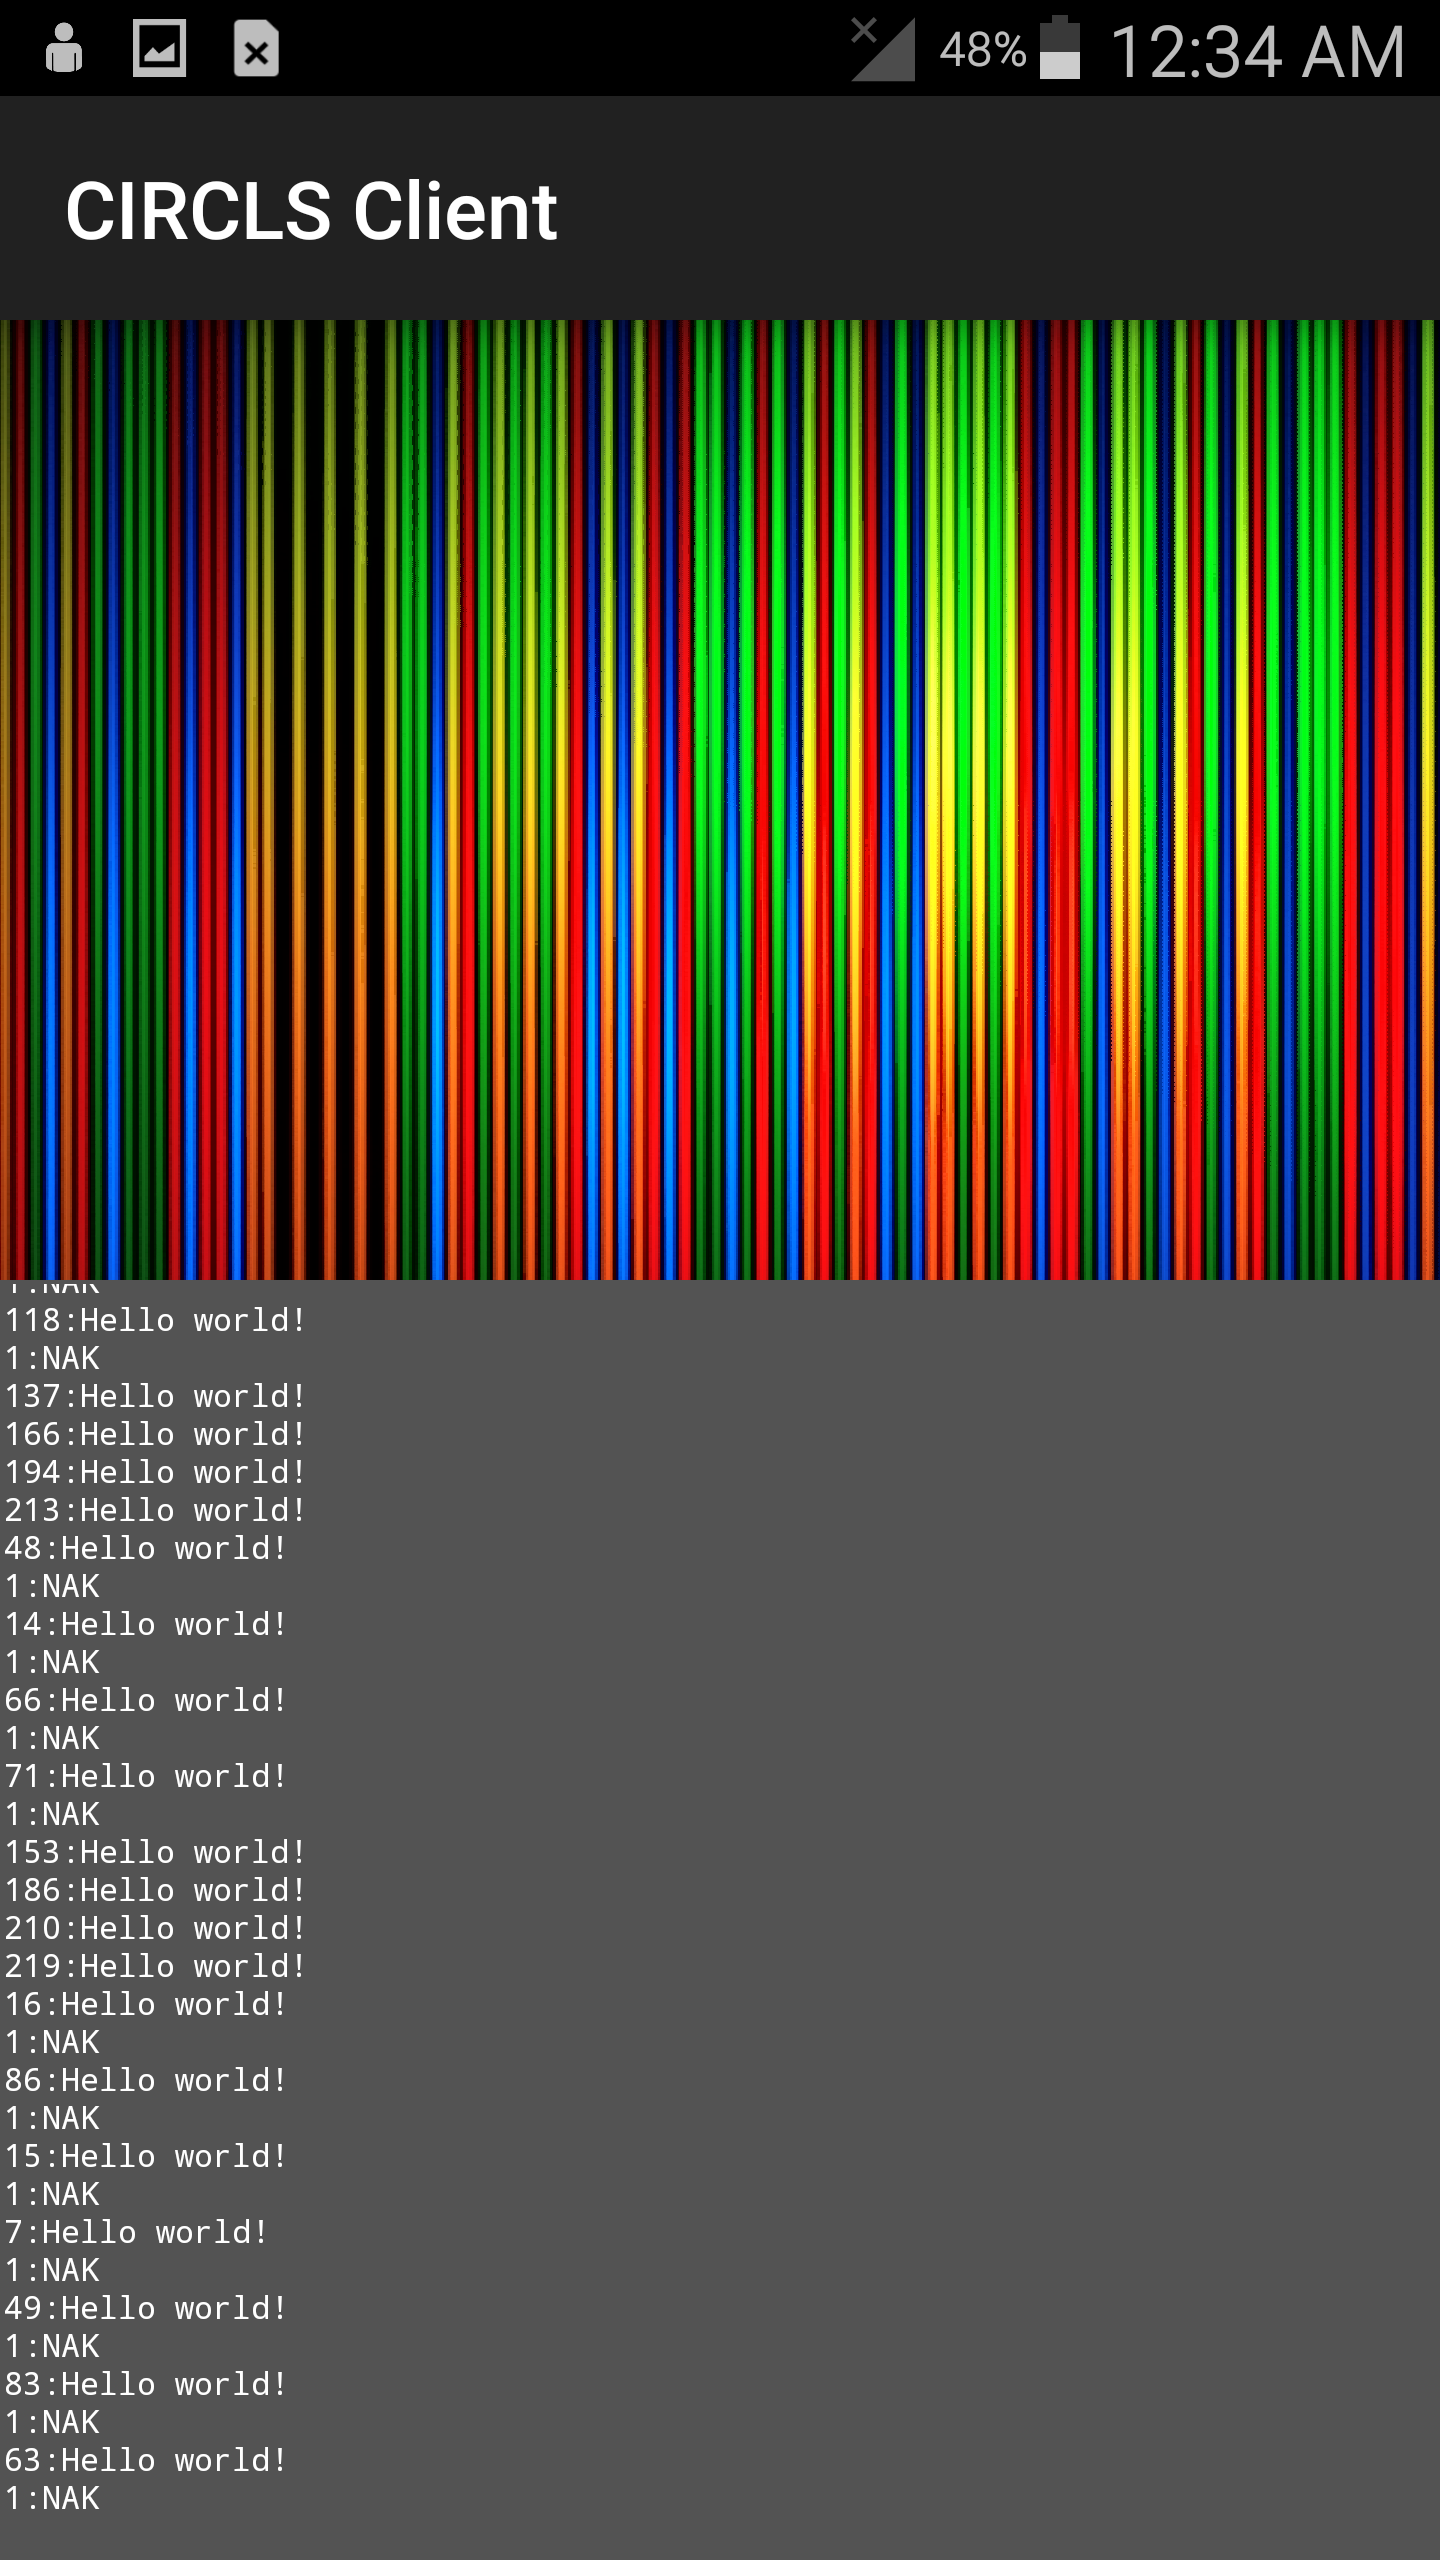
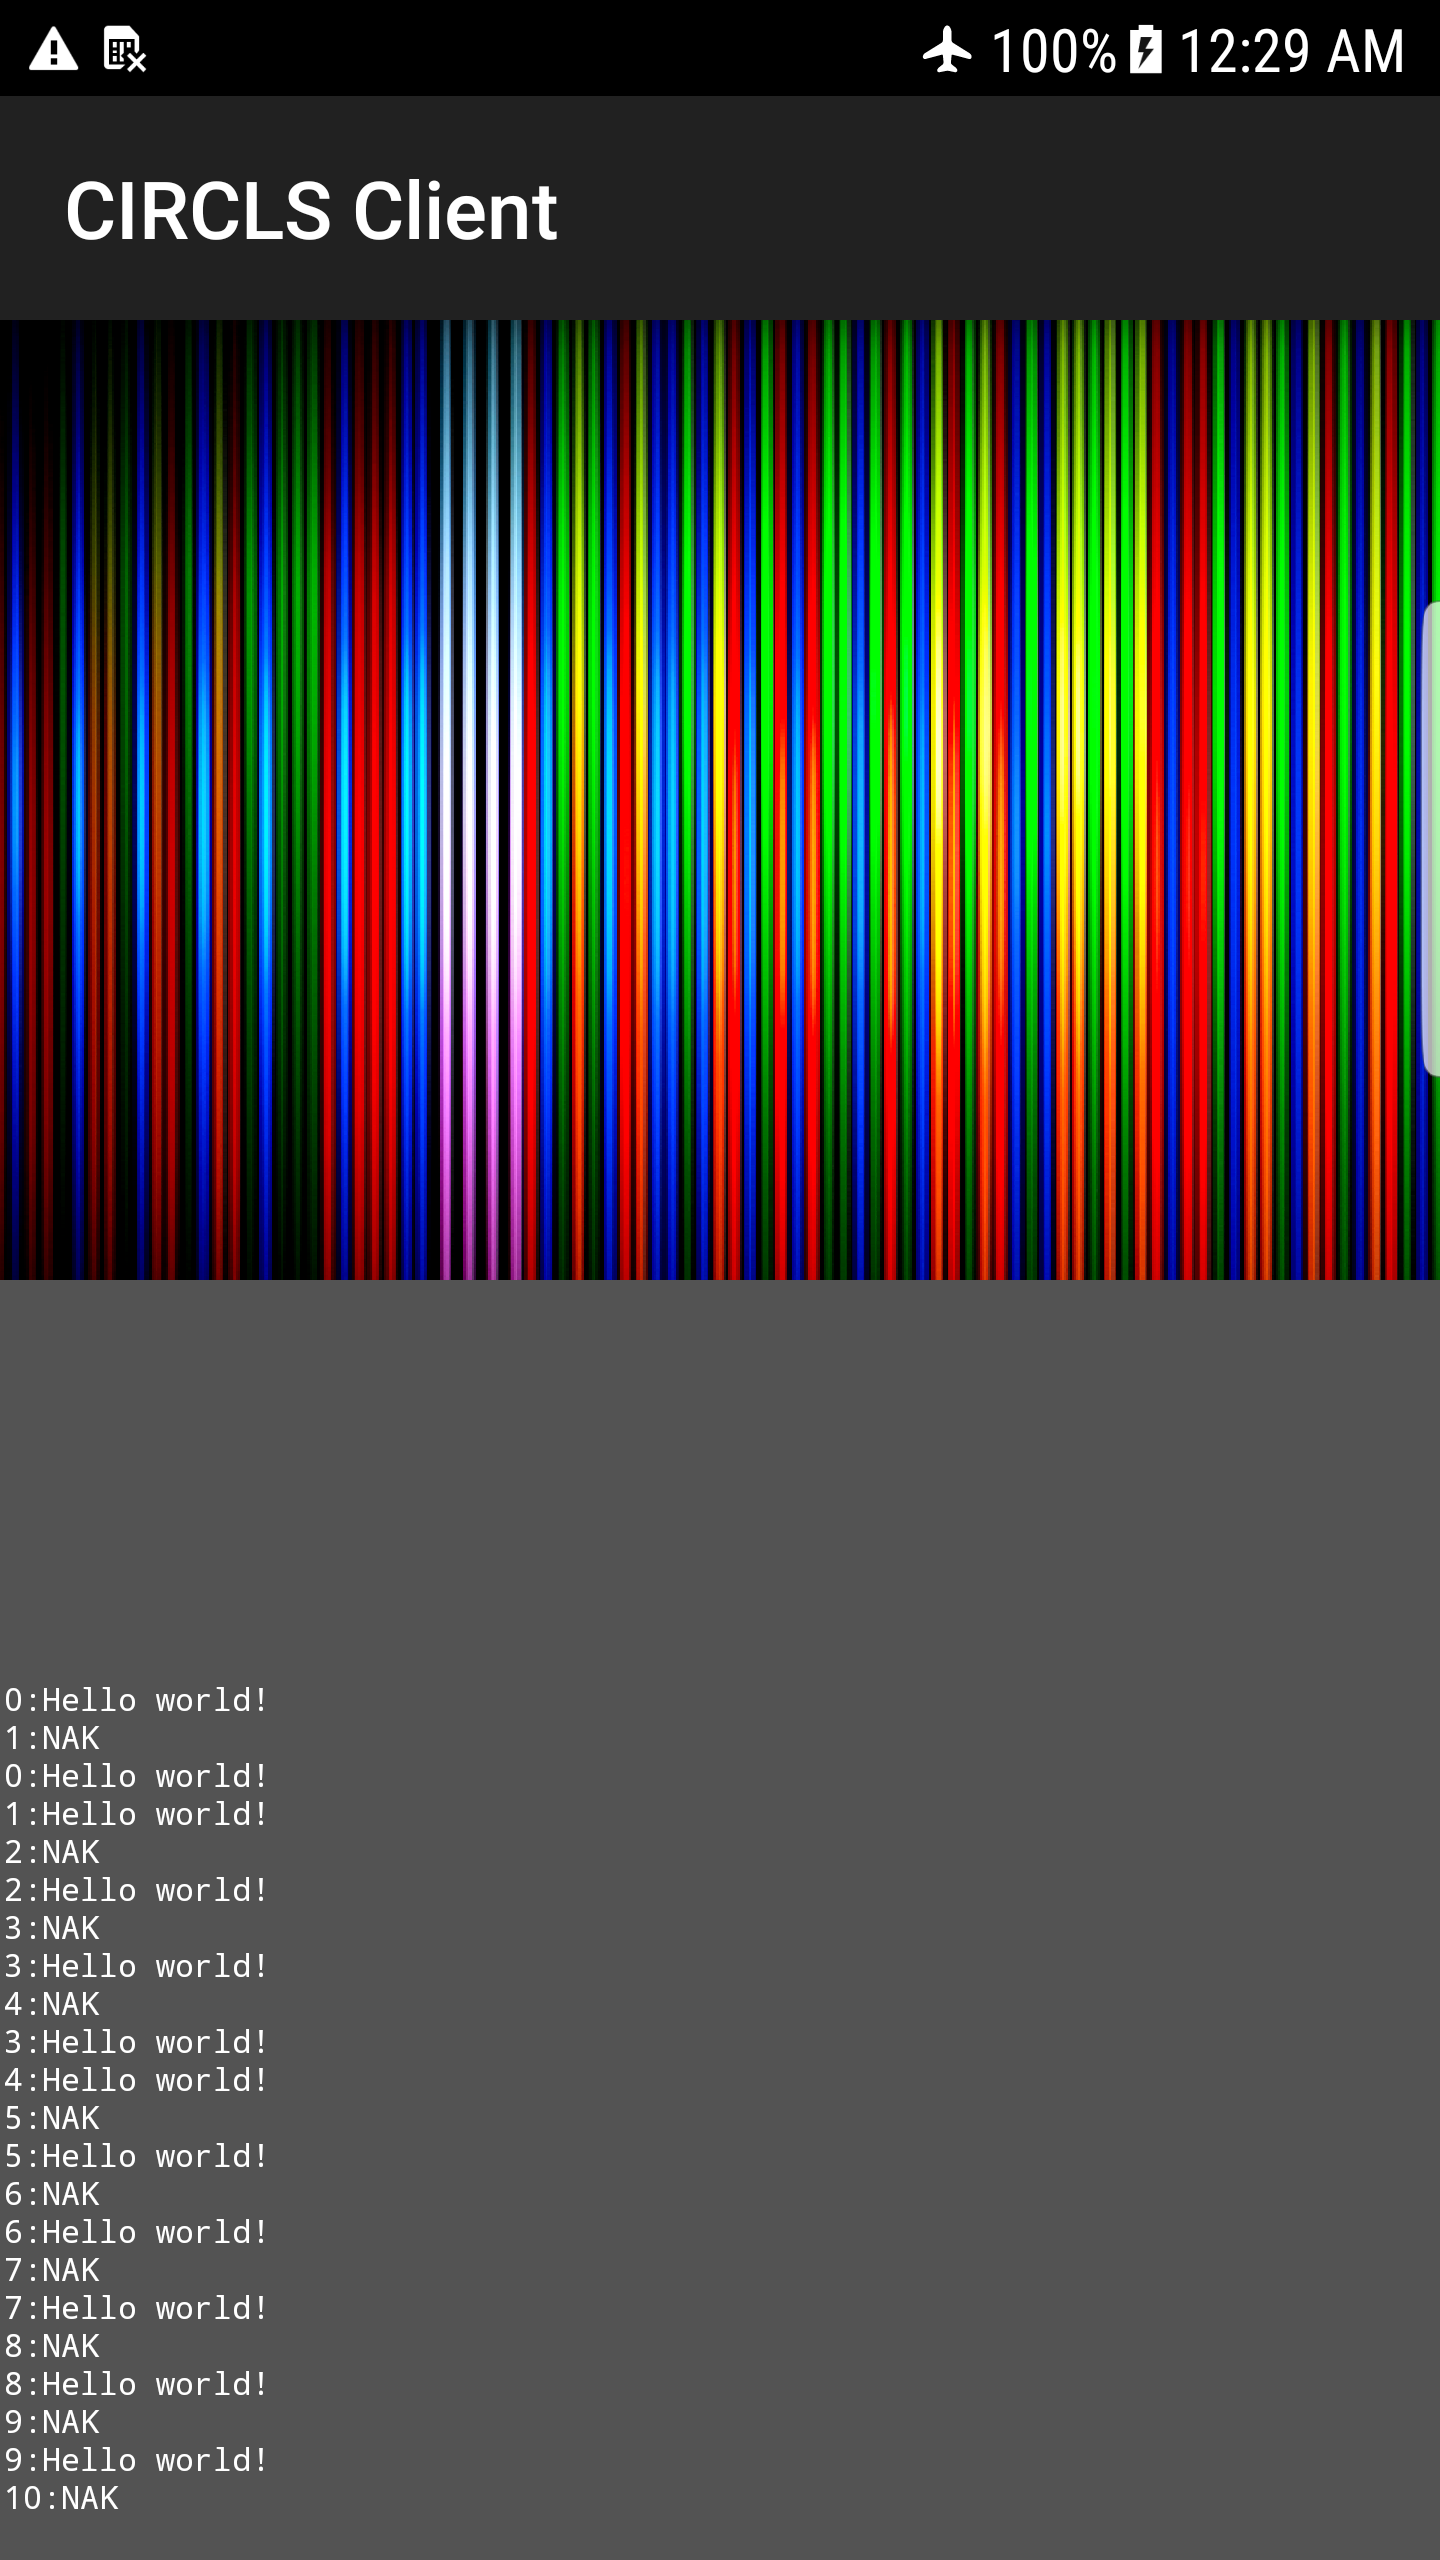
detect white

diff --git a/CirclsClient/app/src/main/cpp/native-lib.cpp b/CirclsClient/app/src/main/cpp/native-lib.cpp
@@ -8,7 +8,7 @@
 #define LOG_TAG    "native-lib"
 #define ALOG(...)  __android_log_print(ANDROID_LOG_INFO,LOG_TAG,__VA_ARGS__)
 
-#define DEBUG // avoid assert
+#define DEBUG // avoid assert FindErrors
 #include "rs.hpp"
 #define NMSG 13
 #define NPAR 4
@@ -34,7 +34,7 @@ void flattenCols(Mat &mat, int32_t flat[][3])
     // get Mat properties
     int rows = mat.rows;
     int cols = mat.cols;
-    uint8_t *data = (uint8_t *)mat.data;
+    auto *data = (uint8_t *)mat.data;
 
     // initialize flat frame
     memset(flat, 0, sizeof(int32_t) * rows * 3);
@@ -64,7 +64,7 @@ void flattenRows(Mat &mat, int32_t flat[][3]) {
     // get Mat properties
     int rows = mat.rows;
     int cols = mat.cols;
-    uint8_t *data = (uint8_t *)mat.data;
+    auto *data = (uint8_t *)mat.data;
 
     // initialize flat frame
     memset(flat, 0, sizeof(int32_t) * cols * 3);
@@ -94,9 +94,10 @@ void flattenRows(Mat &mat, int32_t flat[][3]) {
 // takes symbol storage, a flat frame of pixels, and the number of pixels
 int detectSymbols( uint8_t symbols[][2], int32_t frame[][3], int pixels )
 {
+    std::stringstream ss;
     int count = 0;          // symbol index
     int width = 0;
-    char p = '1';           // previous symbol
+    char p = ' ';           // previous symbol
 
     // convert Lab numbers to 01RGBY representation
     for (int i = 0; i < pixels; i++)
@@ -107,18 +108,19 @@ int detectSymbols( uint8_t symbols[][2], int32_t frame[][3], int pixels )
         char c;
 
         // +L = white, +a = red; -a = green; -b = blue; +b = yellow;
+        if (L < 20) {
+            c = '0';
+        } else if (abs(a) < 30 && abs(b) < 30) {
+            c = '1';
+        } else {
+            if (abs(a) > abs(b)) {
+                c = (a < 0) ? 'G' : 'R';
+            } else {
+                c = (b < 0) ? 'B' : 'Y';
+            }
+        }
 
-        if (abs(a) < 15 && abs(b) < 15) {
-            c = (L < 15) ? '0' : '1';
-        }
-        if (abs(a) > abs(b))
-        {
-            c = (L < 15) ? '0' : (a < 0) ? 'G' : 'R';
-        }
-        else
-        {
-            c = (L < 15) ? '0' : (b < 0) ? 'B' : 'Y';
-        }
+        ss << '(' << frame[i][0] << ',' << frame[i][1] << ',' << frame[i][2] << ' ' << c << ')';
 
         // same as last pixel?
         if (c != p)
@@ -136,37 +138,34 @@ int detectSymbols( uint8_t symbols[][2], int32_t frame[][3], int pixels )
         }
     }
 
+    ALOG("Frame: %s", ss.str().c_str());
     return count;
 }
 
 
 // convert symbols into bits and return as bytes
-int demodulate(uint8_t data[], uint8_t symbols[][2], int len)
+int demodulate(uint8_t data[], int dataLen, uint8_t symbols[][2], int symbolLen)
 {
-    std::stringstream ss;
     int i = 7;         // symbol index
     int j = 0;         // data index
     int k = 0;         // bit index
     int width;
 
     // look for sync sequence
-    for (; i < len; i++)
+    for (; i < symbolLen; i++)
     {
-        if (symbols[i - 7][0] == 'Y' && symbols[i - 6][0] == '0' && symbols[i - 5][0] == 'Y' && symbols[i - 4][0] == '0' && symbols[i - 3][0] == 'Y' && symbols[i - 2][0] == '0' && symbols[i - 1][0] == 'Y' && symbols[i][0] == '0') {
+        if (symbols[i - 7][0] == '1' && symbols[i - 6][0] == '0' && symbols[i - 5][0] == '1' && symbols[i - 4][0] == '0' && symbols[i - 3][0] == '1' && symbols[i - 2][0] == '0' && symbols[i - 1][0] == '1' && symbols[i][0] == '0') {
             width = (symbols[i - 7][1] + symbols[i - 5][1] + symbols[i - 3][1] + symbols[i - 1][1]) * 3 / 16;
             ALOG("Symbol Width: %d", width);
             break;
         }
     }
 
-    // access data as words to preserve byte ordering
-    uint32_t *words = (uint32_t *)data;
-    words[j] = 0;
-
     // process remaining symbols
-    while (i < len)
+    data[j] = 0;
+    while (i < symbolLen && j < dataLen)
     {
-        uint32_t b = 0;
+        uint8_t b = 0;
         switch (symbols[i][0]) {
             case 'R':
                 b = 0b00;
@@ -187,18 +186,15 @@ int demodulate(uint8_t data[], uint8_t symbols[][2], int len)
         }
 
         if (symbols[i][1] >= width) {
-            // debugging
-            ss << (char) symbols[i][0];
-
             // insert data symbol
-            words[j] |= b << k;
+            data[j] |= b << k;
 
             // update bit index
-            k = (k + 2) % 32;
+            k = (k + 2) % 8;
 
             // start of a new word?
             if (k == 0) {
-                words[++j] = 0;
+                data[++j] = 0;
             }
 
             symbols[i][1] -= width;
@@ -208,16 +204,13 @@ int demodulate(uint8_t data[], uint8_t symbols[][2], int len)
         }
     }
 
-    ALOG("Used symbols: %s", ss.str().c_str());
-
-    // number of bytes demodulated
-    return j * 4 + k / 8;
+    return j;
 }
 
 extern "C"
 JNIEXPORT jcharArray JNICALL Java_edu_gmu_cs_CirclsClient_RxHandler_FrameProcessor(JNIEnv &env, jobject obj,
                                                                            jint width, jint height, jobject pixels) {
-    uint8_t data[256];
+    uint8_t data[NMSG+NPAR];
     int num_decoded = 0;
 
     if (width > 0 && height > 0) {
@@ -235,39 +228,26 @@ JNIEXPORT jcharArray JNICALL Java_edu_gmu_cs_CirclsClient_RxHandler_FrameProcess
         flattenRows(matLab, frame);
         matLab.release();
 
-        std::stringstream ss;
-        for (int i = 0; i < num_pixels; i++)
-            ss << '(' << frame[i][0] << ',' << frame[i][1] << ',' << frame[i][2] << ')';
-        ALOG("Frame: %s", ss.str().c_str());
-
         // detect symbols
         uint8_t symbols[num_pixels][2];
         int num_symbols = detectSymbols(symbols, frame, num_pixels);
 
-        ss.str("");
-        for (int i = 0; i < num_symbols; i++) ss << setw(3) << (char) symbols[i][0];
-        ALOG("Symbols: %s", ss.str().c_str());
-        ss.str("");
-        for (int i = 0; i < num_symbols; i++) ss << setw(3) << (int) symbols[i][1];
-        ALOG("Widths : %s", ss.str().c_str());
-
         // demodulate
-        int num_demodulated = demodulate(data, symbols, num_symbols);
+        int num_encoded = demodulate(data, NMSG+NPAR, symbols, num_symbols);
 
         // decode if we have a full message
-        int num_encoded = NMSG + NPAR;
-        if (num_demodulated >= num_encoded) {
+        if (num_encoded == NMSG+NPAR) {
             num_decoded = rs.Decode(data, data) ? 0 : NMSG;
         }
-        ALOG("Demodulated: %d Encoded: %d, Decoded: %d, Id: %d, Message: %.*s %x %x %x %x",
-             num_demodulated, num_encoded, num_decoded,
+        ALOG("Encoded: %d, Decoded: %d, Id: %d, Message: %.*s %x %x %x %x",
+             num_encoded, num_decoded,
              data[0], NMSG - 1, (data + 1),
              data[num_encoded - 3], data[num_encoded - 2], data[num_encoded - 1], data[num_encoded]);
     }
 
     // return text
     jcharArray message = env.NewCharArray(num_decoded);
-    if (message != NULL) {
+    if (message != nullptr) {
         jchar buf[num_decoded];
         for (int i = 0; i < num_decoded; i++) {
             buf[i] = data[i];
